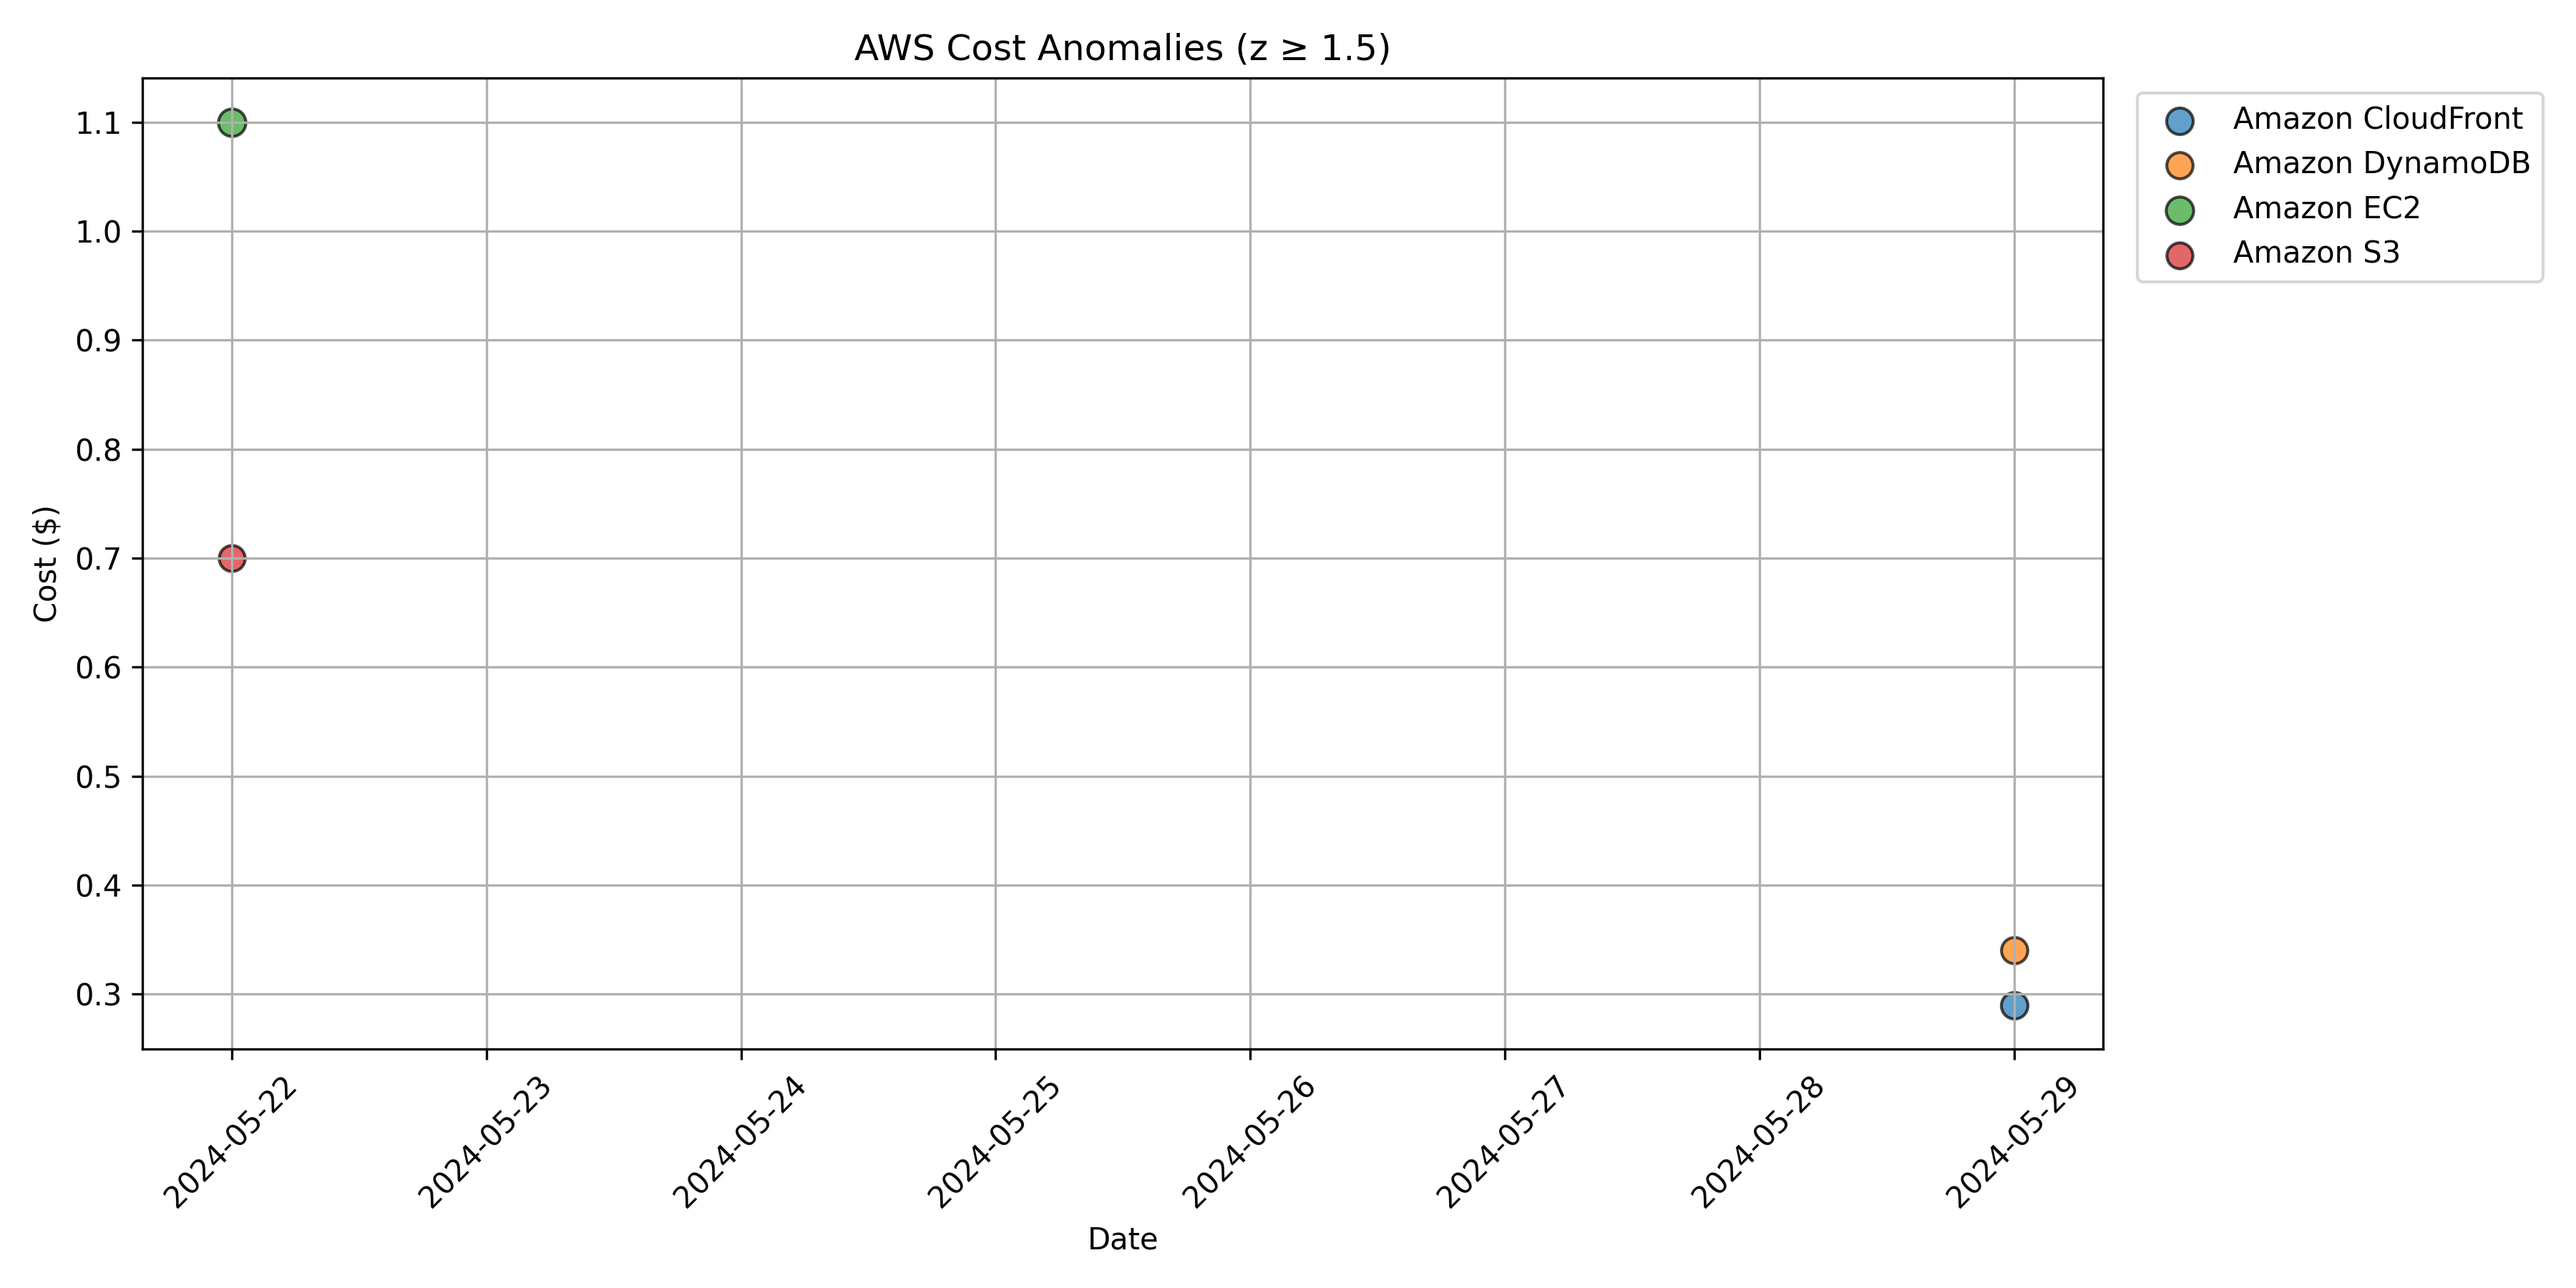
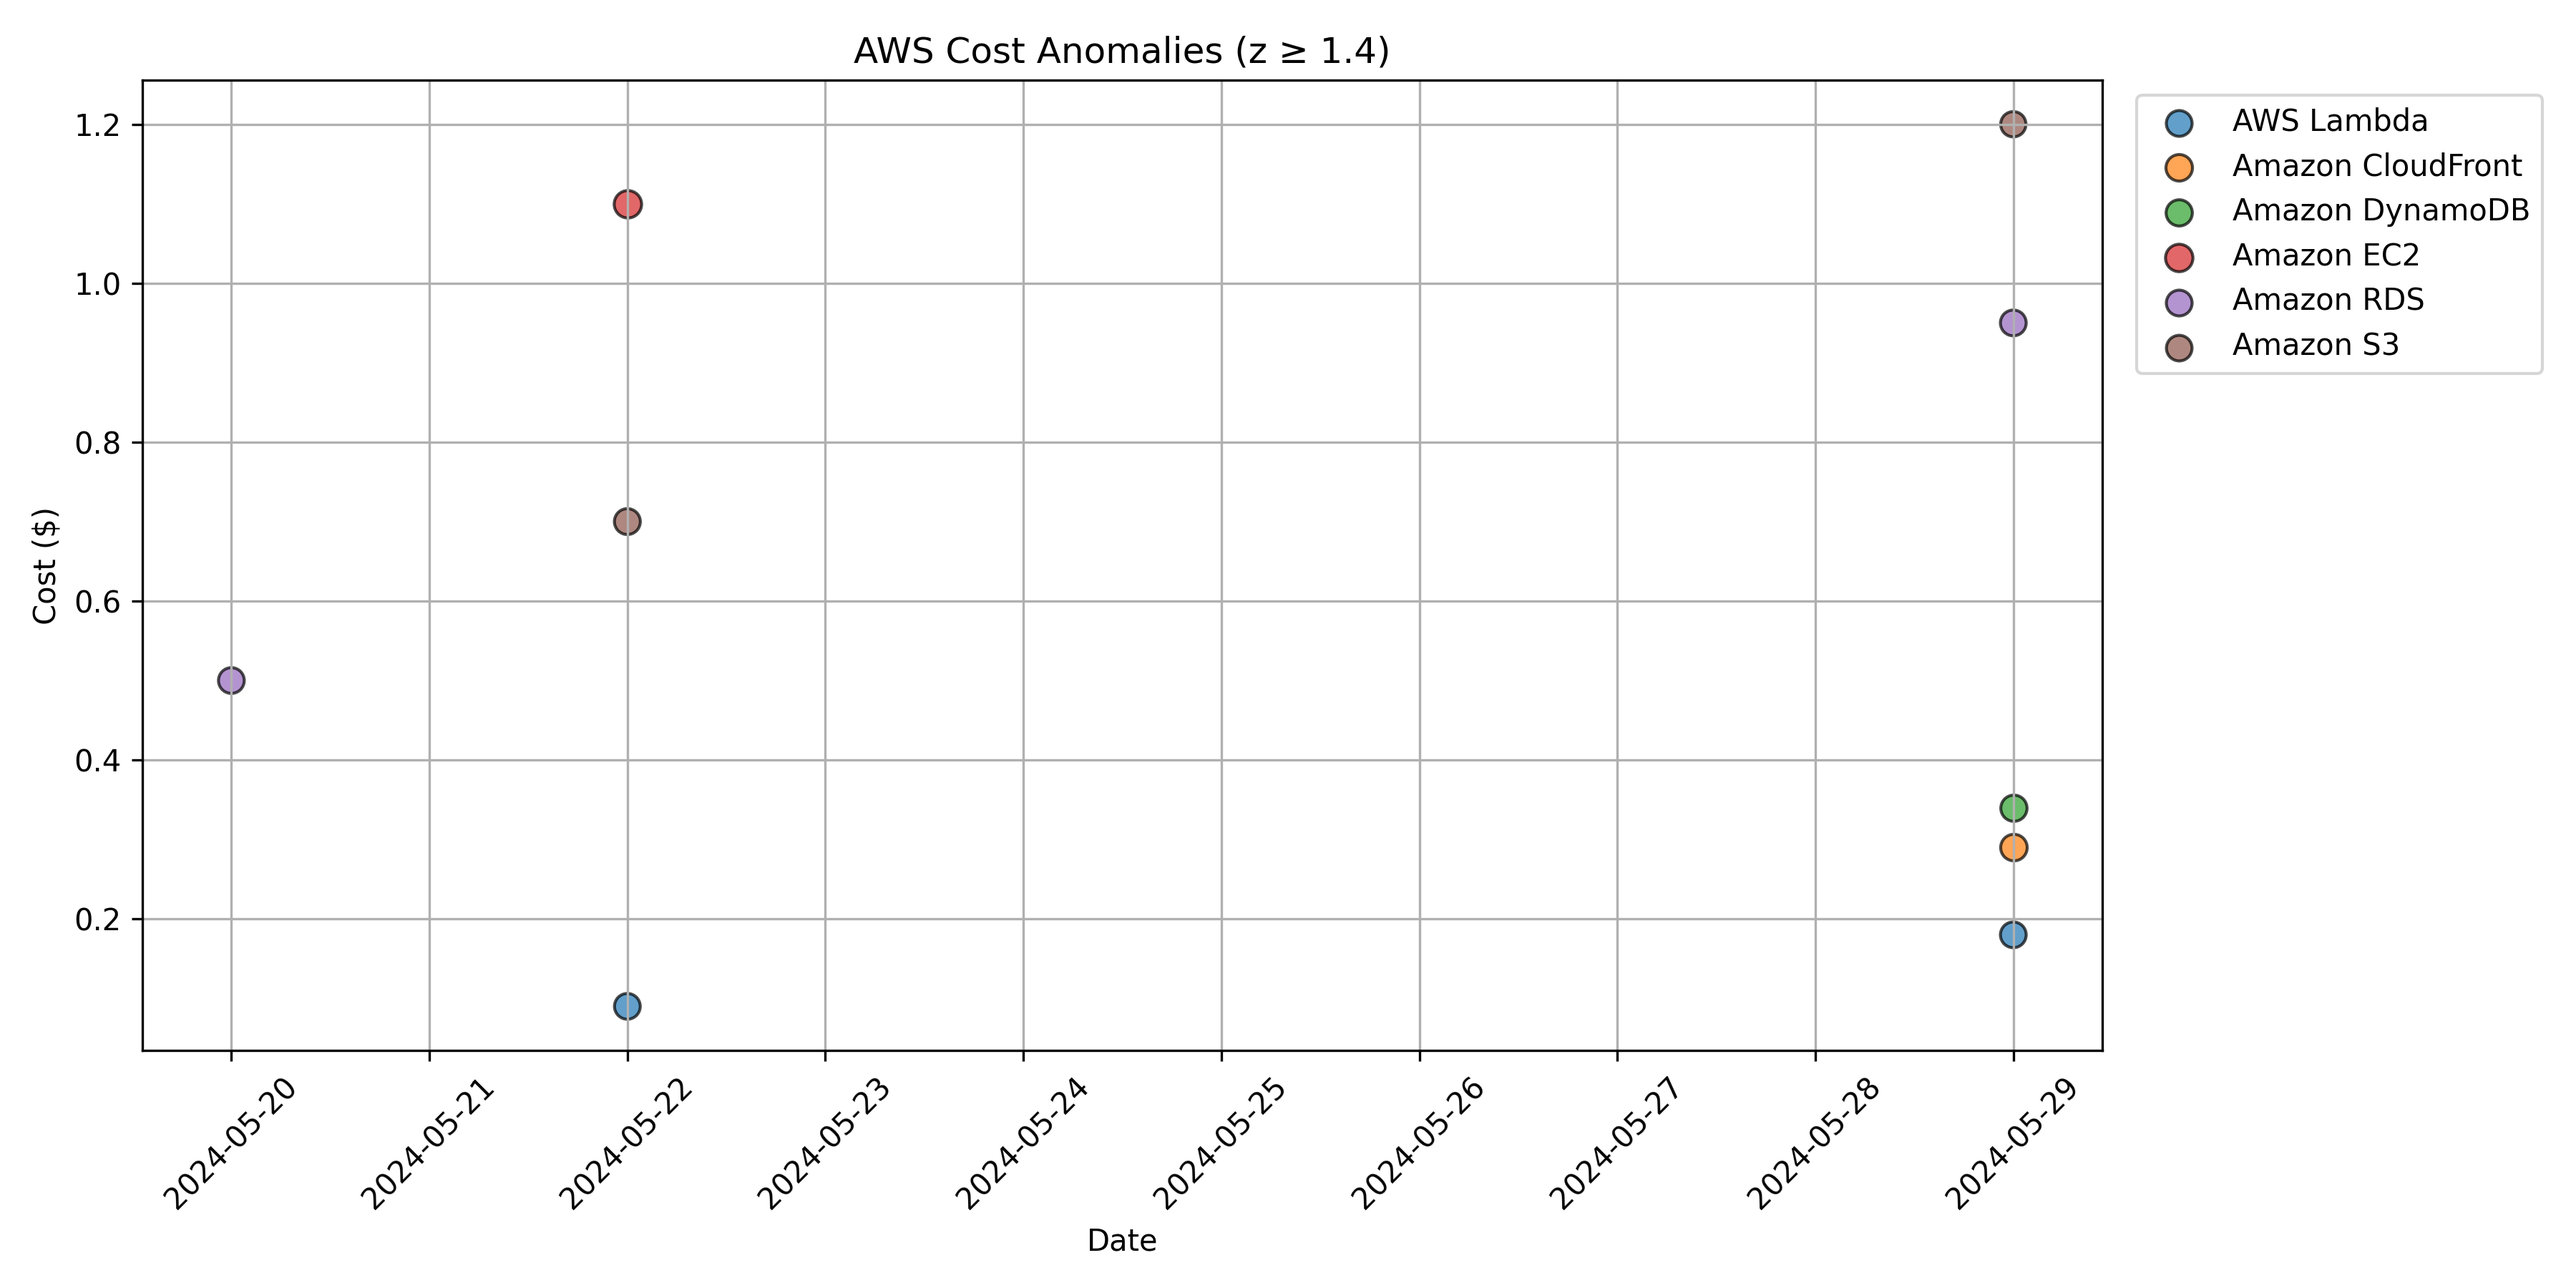
experimenting with threshold values

diff --git a/backend/visualize_anomalies.py b/backend/visualize_anomalies.py
@@ -54,4 +54,5 @@ def plot_anomalies(z_threshold: float = 2.0):
     plt.show()
 
 if __name__ == "__main__":
-    plot_anomalies(z_threshold=2.0)
+    plot_anomalies(z_threshold=1.4
+                   )
